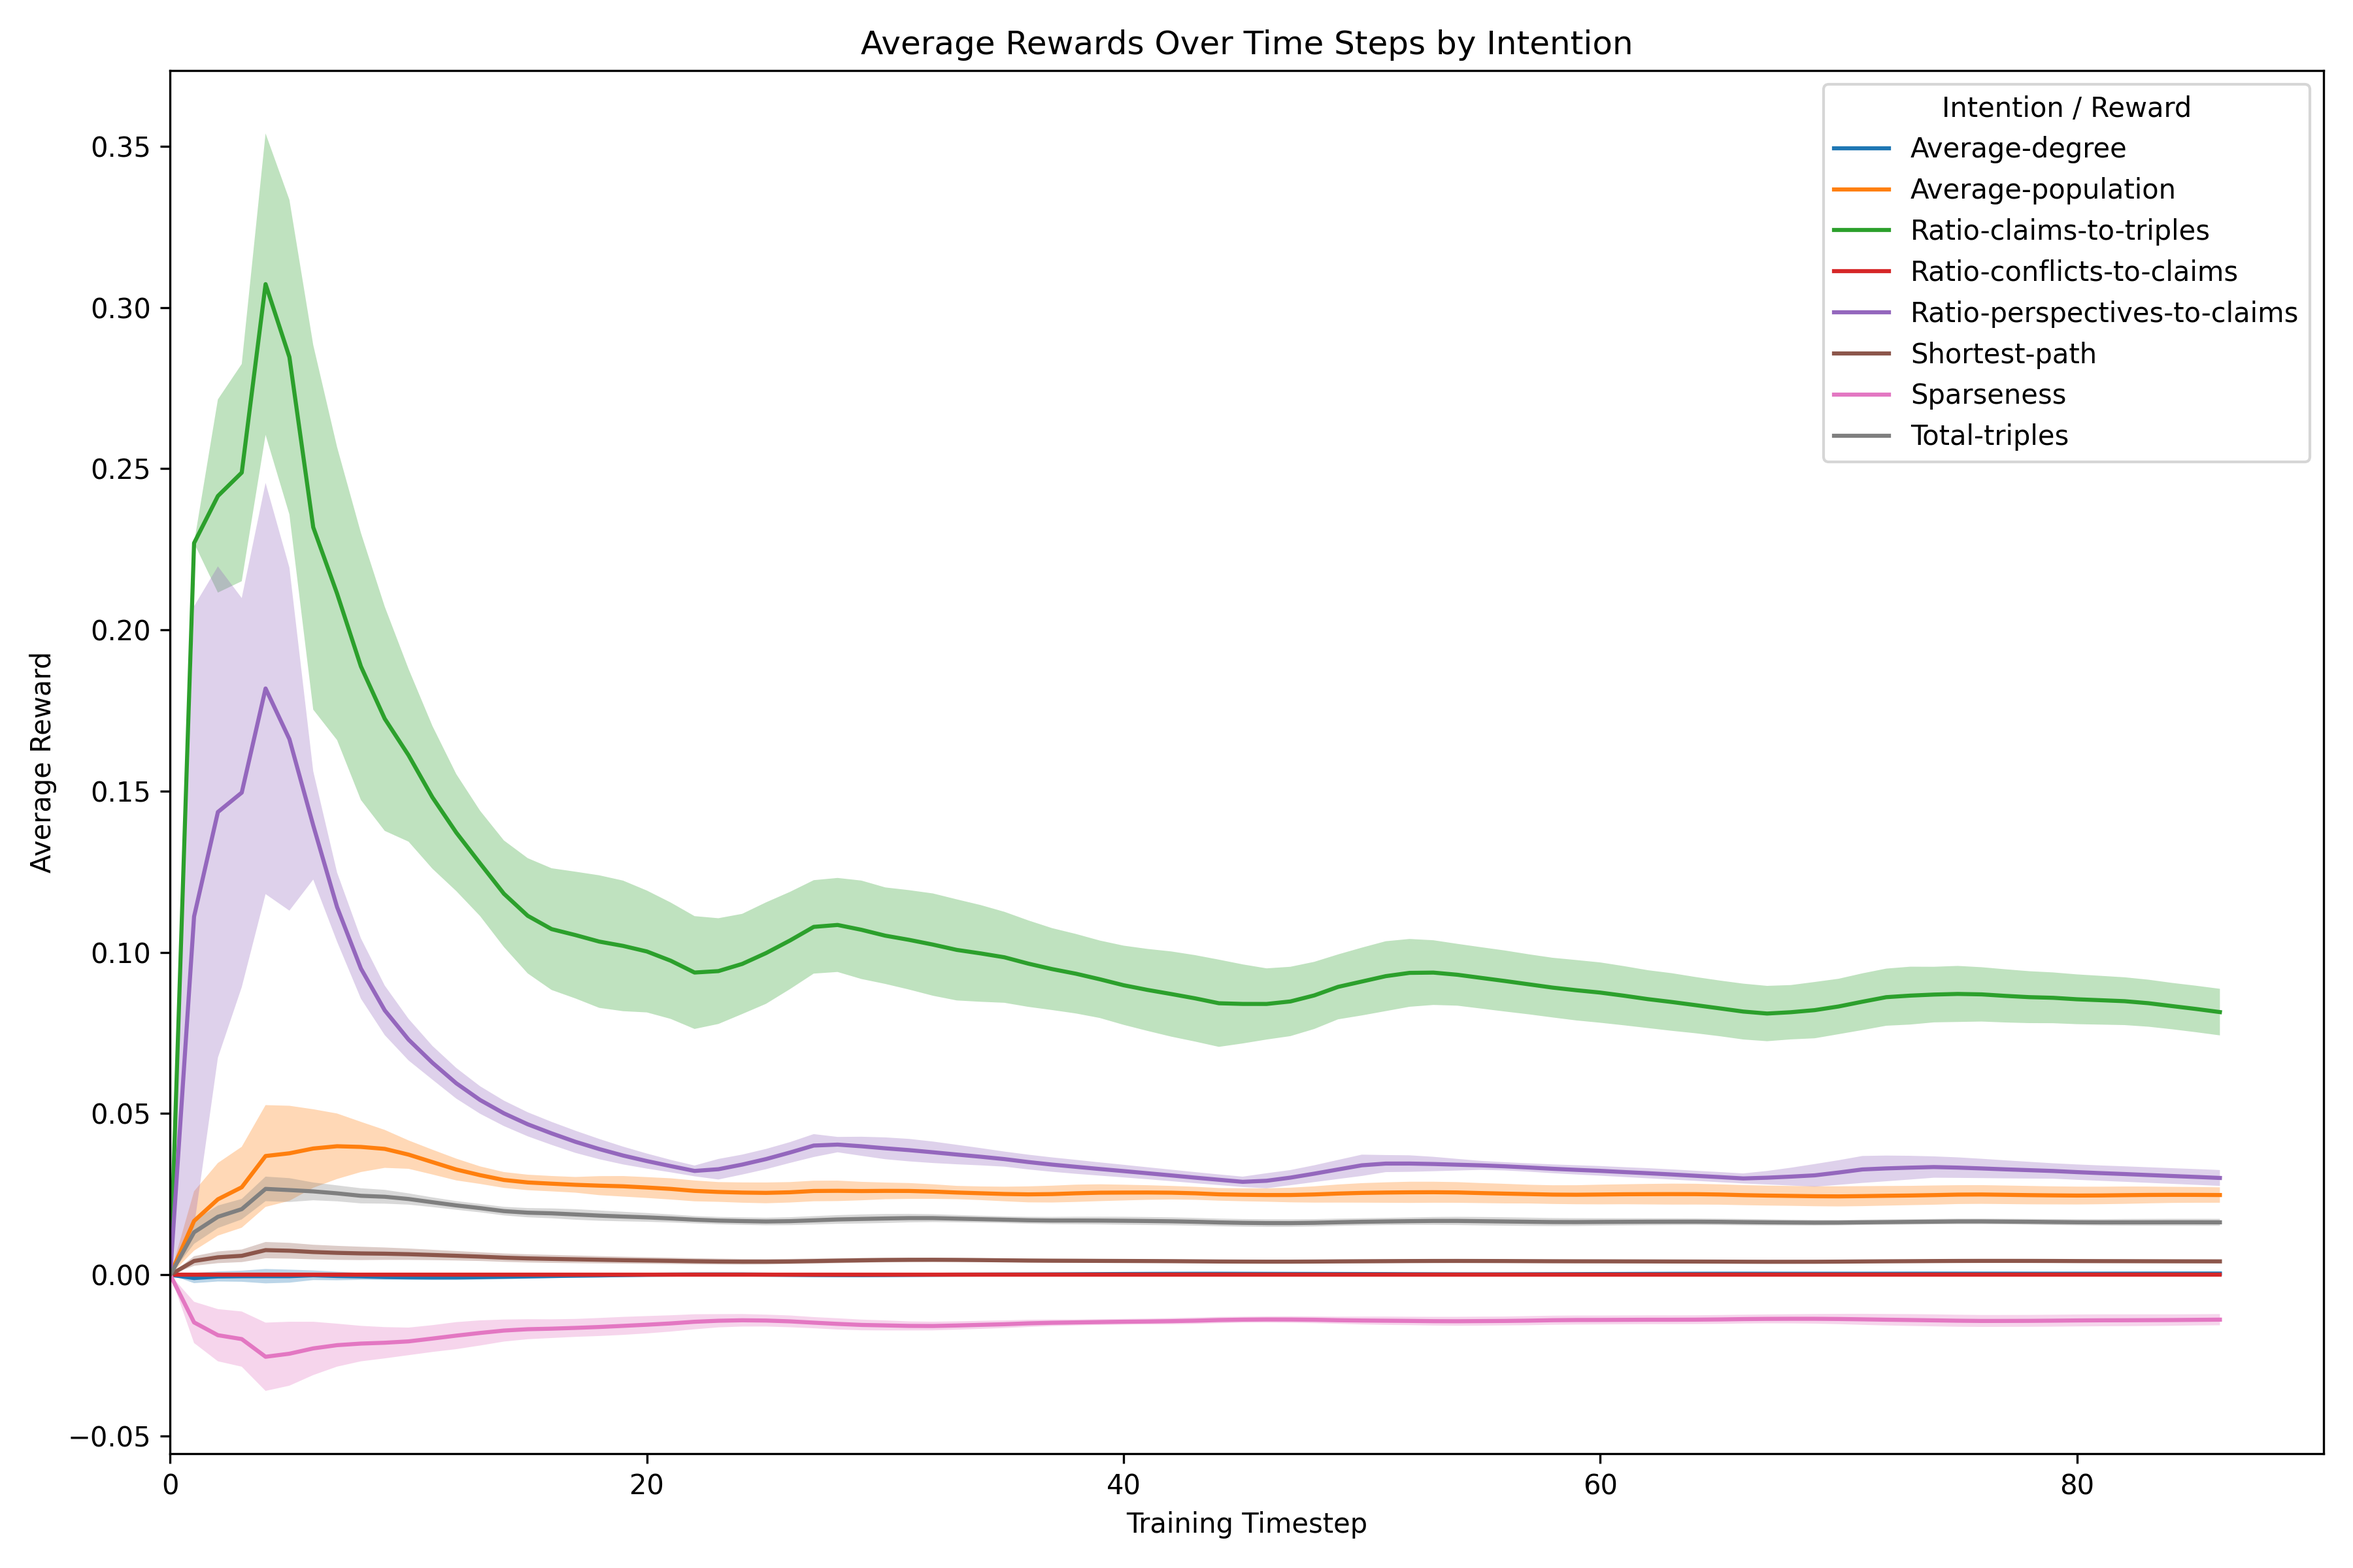
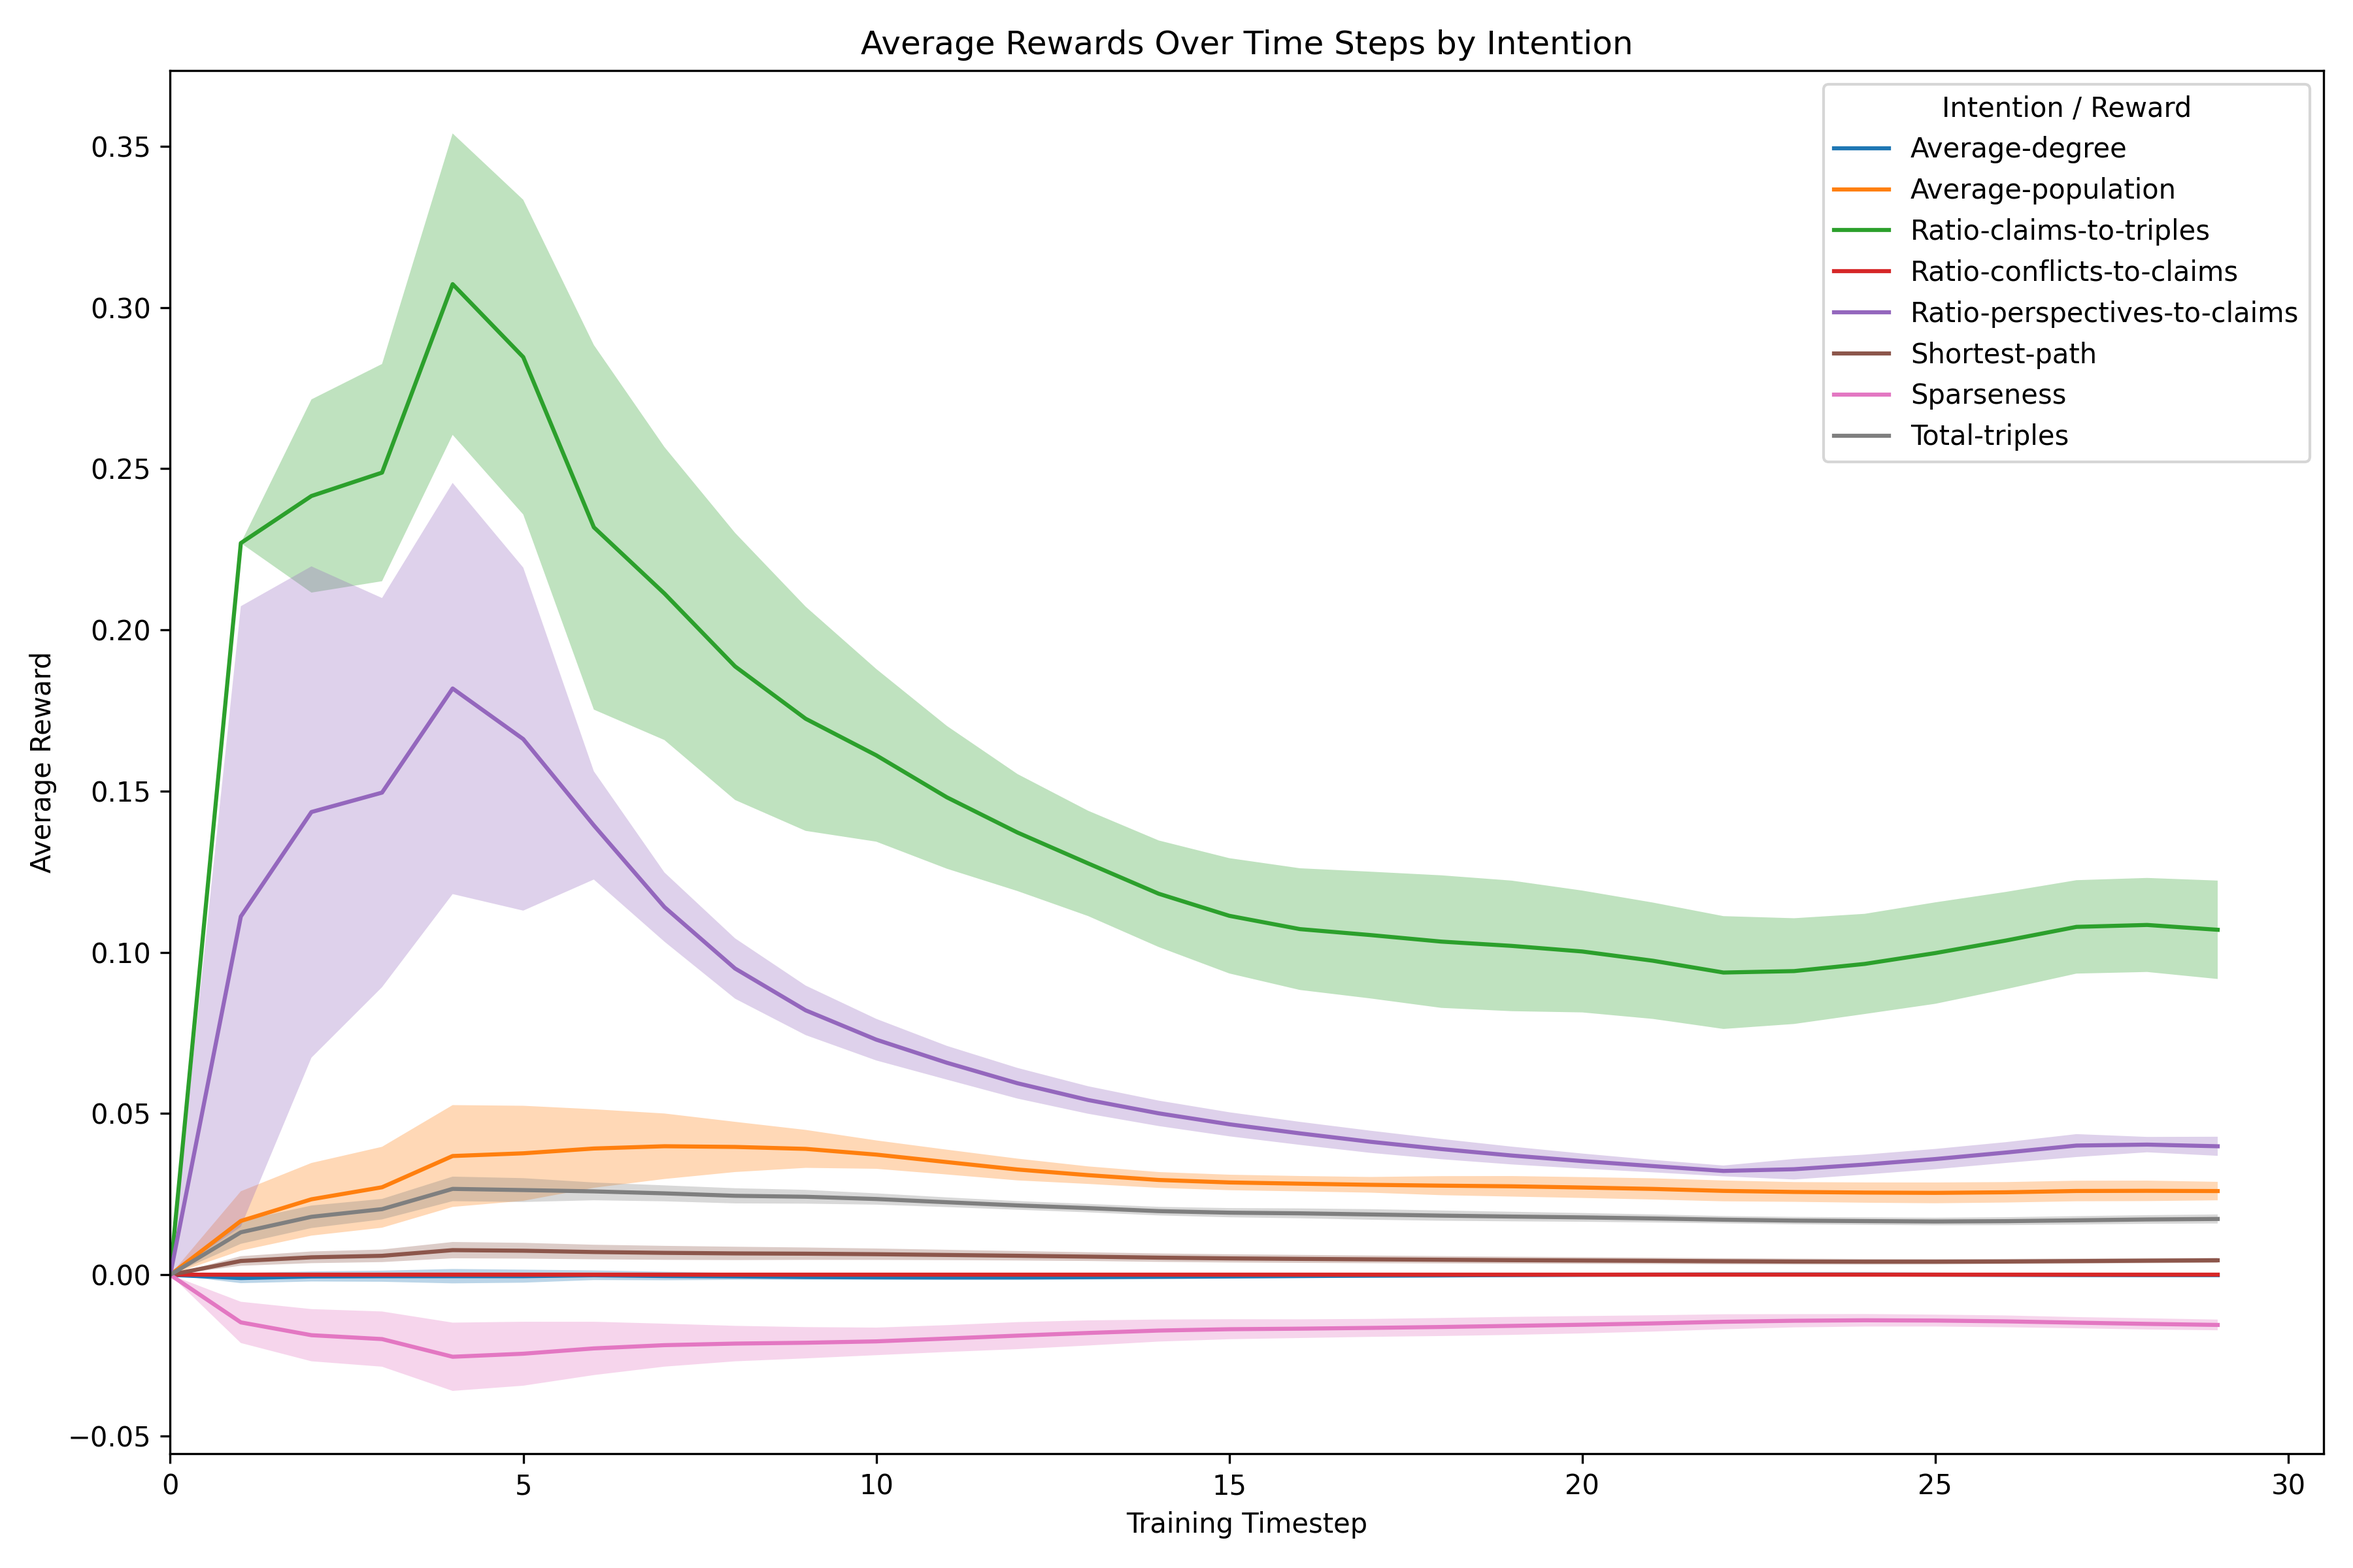
final plots

Changed region(s): [[0.0622, 0.0938, 0.9644, 0.9062], [0.8711, 0.8125, 0.9333, 0.875], [0.6533, 0.9375, 0.6844, 0.9688]]

diff --git a/src/results_analysis/plot_experiment_comparison.py b/src/results_analysis/plot_experiment_comparison.py
@@ -2,11 +2,14 @@ import argparse
 import json
 from pathlib import Path
 
+from math import floor
 import matplotlib.pyplot as plt
 import numpy as np
 import pandas as pd
+import plotly.graph_objects as go
 import seaborn as sns
 import torch
+from sklearn.preprocessing import MinMaxScaler
 
 from dialogue_system.d2q_selector import DQN, StateEncoder
 from dialogue_system.utils.encode_state import HarryPotterRDF
@@ -130,8 +133,6 @@ def get_final_knowledge_stats(data, plots_folder):
 
     final_k.drop(columns=["timestep"], inplace=True)
 
-    final_k.to_csv(plots_folder / "final_k.csv")
-
     final_k["Average degree"] = final_k["Average degree"].round(3)
     final_k["Sparseness"] = final_k["Sparseness"] * 100
     final_k["Sparseness"] = final_k["Sparseness"].round(3)
@@ -139,9 +140,33 @@ def get_final_knowledge_stats(data, plots_folder):
     final_k["Total triples"] = final_k["Total triples"].astype(int)
     final_k["Average population"] = final_k["Average population"].round(2)
 
+    final_k.to_csv(plots_folder / "final_k.csv")
+
     latex_table = final_k.to_latex(index=False)
     with open(plots_folder / "final_k.tex", 'w') as f:
         f.write(latex_table)
+
+    return final_k
+
+
+def plot_spider_scores(data, plots_folder):
+    data = data.set_index("condition")
+
+    scaler = MinMaxScaler()
+    scaled_graph_scores = scaler.fit_transform(data)
+
+    fig = go.Figure()
+
+    for scores, id in zip(scaled_graph_scores, list(data.index)):
+        fig.add_trace(go.Scatterpolar(r=scores,
+                                      theta=list(data.columns),
+                                      fill='toself',
+                                      name=f'{id}'))
+
+    fig.update_layout(polar=dict(radialaxis=dict(visible=True), ), showlegend=True, title="Knowledge profiles")
+
+    fig.show()
+    fig.write_image(plots_folder / f'final_graph_starplot.png')
 
 
 def plot_cum_reward_per_chat(data, plots_folder, log=False):
@@ -199,6 +224,10 @@ def plot_avg_reward(data, plots_folder):
         .transform(lambda x: x.rolling(window=5, min_periods=1).mean())
     avg_over_runs['std_average_reward_rolling'] = avg_over_runs.groupby(['condition'])['std_average_reward'] \
         .transform(lambda x: x.rolling(window=5, min_periods=1).mean())
+
+    # only half the x axis
+    # avg_over_runs = avg_over_runs[avg_over_runs["timestep"] < floor(avg_over_runs["timestep"].max() / 2)]
+    avg_over_runs = avg_over_runs[avg_over_runs["timestep"] < 30]
 
     # Plotting
     plt.figure(figsize=(12, 8), tight_layout=True)
@@ -318,7 +347,6 @@ def plot_cum_reward_compared(data, plots_folder, range=False):
         plt.savefig(plots_folder / "comparative_cumulative_reward-no_range.png", dpi=300)
 
 
-
 def collect_data(conditions, testing_experiment=False):
     experiments_data = []
     qvalues_data = []
@@ -428,16 +456,17 @@ def main(args):
     # TODO here use only the results from the last chat
     history_data = history_data[history_data["condition"].isin(INCLUDED_CONDITIONS)]
     plot_action_count(history_data, experiment_plots_path)  # for test
-    get_final_knowledge_stats(history_data, experiment_plots_path)  # for test
+    final_k = get_final_knowledge_stats(history_data, experiment_plots_path)  # for test
+    plot_spider_scores(final_k, experiment_plots_path)
 
     return history_data
 
 
 if __name__ == "__main__":
     parser = argparse.ArgumentParser()
-    # parser.add_argument("--experiment_id", default="e1 (10turns_8chats_3runs)", type=str, help="ID for an experiment")
-    parser.add_argument("--experiment_id", default="t1 (10turns_3runs)", type=str, help="ID for an experiment")
-    parser.add_argument("--compare_experiments", default=True, action='store_true', help="Plot comparison at the end")
+    parser.add_argument("--experiment_id", default="e1 (10turns_8chats_3runs)", type=str, help="ID for an experiment")
+    # parser.add_argument("--experiment_id", default="t1 (10turns_3runs)", type=str, help="ID for an experiment")
+    parser.add_argument("--compare_experiments", default=False, action='store_true', help="Plot comparison at the end")
     parser.add_argument("--second_experiment_id", default="t2 (10turns_3runs)", type=str, help="ID second experiment")
 
     args = parser.parse_args()
@@ -456,8 +485,7 @@ if __name__ == "__main__":
 
     print("DONE")
 
-
 # "e1 (10turns_8chats_3runs)" => avg reward for training process
 # "t1 (10turns_3runs_8checkpoints)" => cum rewards for testing checkpoints
-# "t1 (10turns_3runs)" => action distribution, knowledge table and action counts for testing final
+# "t1 (10turns_3runs)" => action distribution, knowledge table, knowledge spider and action counts for testing final
 # "t1 (10turns_3runs)" , True , "t2 (10turns_3runs)" => cum rewards for testing final (comparison)
